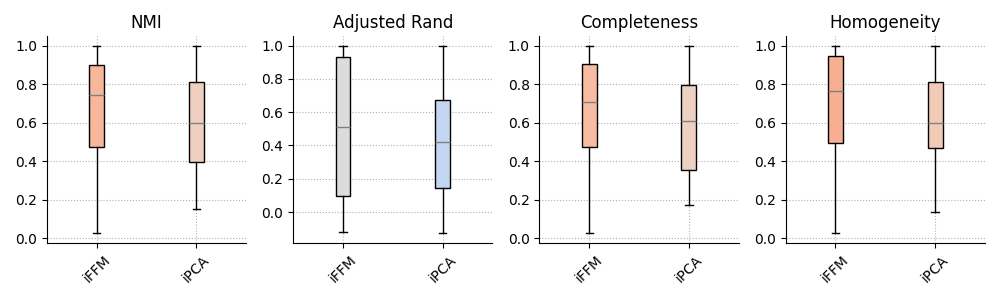
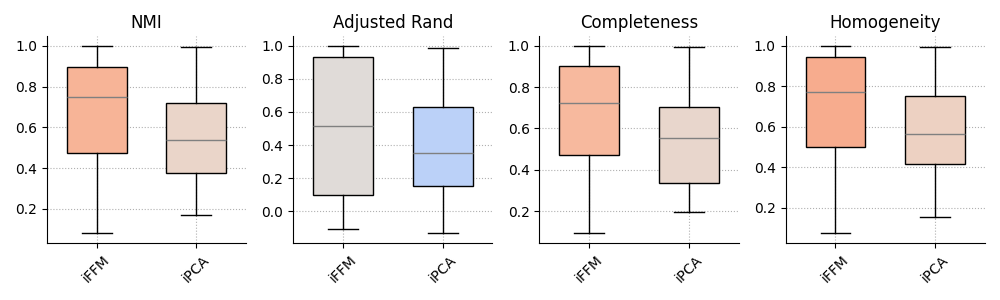
figure benchmark

diff --git a/benchmark_experiment.py b/benchmark_experiment.py
@@ -1,3 +1,4 @@
+import math
 import os
 import numpy as np
 from sklearn.cluster import KMeans
@@ -6,8 +7,12 @@ from sklearn.discriminant_analysis import StandardScaler
 from ffm import FFM
 from sklearn.metrics import normalized_mutual_info_score, adjusted_rand_score, completeness_score, homogeneity_score
 import matplotlib.pyplot as plt
+from scipy.stats import rankdata
+from scipy.stats import chi2
 
 dir = 'experiments_R2/datasets'
+
+np.random.seed(2137)
 
 files = os.listdir(dir)
 try:
@@ -36,8 +41,9 @@ files = np.array(files2)
 print(len(files))
 
 # ___ experiments
+reps = 20
 metrics = [normalized_mutual_info_score, adjusted_rand_score, completeness_score, homogeneity_score]
-results = np.zeros((len(files),10,4,2))
+results = np.zeros((len(files),reps,4,2))
 
 for f_id, f in enumerate(files):
     data = np.loadtxt('%s/%s' % (dir, f), delimiter=',')
@@ -64,7 +70,7 @@ for f_id, f in enumerate(files):
         end = (ch_id+1)*chunk_size
         gt.append(int(y[end-1]))
     
-    for rep in range(10):
+    for rep in range(reps):
         
         # FFM
         ffm = FFM(n=4)
@@ -106,7 +112,7 @@ np.savetxt('experiments_R2/results_benchmarks.csv', rows, delimiter='\t', fmt="%
 fig, ax = plt.subplots(1,4,figsize=(10,3))
 for metric_id, metric in enumerate(['NMI', 'Adjusted Rand', 'Completeness', 'Homogeneity']):
         
-        bplot = ax[metric_id].boxplot(mean_res[:,metric_id], 
+        bplot = ax[metric_id].boxplot(mean_res[:,metric_id], widths=0.6, 
                                               patch_artist=True)
         
         colors = plt.cm.coolwarm(np.mean(mean_res[:,metric_id], axis=0))
@@ -129,3 +135,272 @@ fig.align_ylabels()
 
 plt.tight_layout()
 plt.savefig('foo.png') 
+
+exit()
+#---- stat
+
+def friedman_test(X, alpha=0.05):
+    N = X.shape[0]
+    k = X.shape[1]
+    ranks = k + 1 - rankdata(X, axis=1)
+    stat = (12 / N*k*(k+1)) * np.sum(np.sum(ranks, axis=0)**2) - 3*N*(k+1)
+    chi = chi2.ppf(1 - alpha, k-1)
+    return np.mean(ranks, axis=0), stat >= chi
+
+
+def compute_CD(avranks, n):
+    k = len(avranks)
+    q = [0, 0, 1.959964, 2.343701, 2.569032, 2.727774,
+        2.849705, 2.94832, 3.030879, 3.101730, 3.163684,
+        3.218654, 3.268004, 3.312739, 3.353618, 3.39123,
+        3.426041, 3.458425, 3.488685, 3.517073,
+        3.543799]
+    cd = q[k] * (k * (k + 1) / (6.0 * n)) ** 0.5
+    return cd
+
+def nth(l, n):
+        """
+        Returns only nth elemnt in a list.
+        """
+        n = lloc(l, n)
+        return [a[n] for a in l]
+
+def lloc(l, n):
+    """
+    List location in list of list structure.
+    Enable the use of negative locations:
+    -1 is the last element, -2 second last...
+    """
+    if n < 0:
+        return len(l[0]) + n
+    else:
+        return n
+    
+def mxrange(lr):
+    """
+    Multiple xranges. Can be used to traverse matrices.
+    This function is very slow due to unknown number of
+    parameters.
+
+    >>> mxrange([3,5])
+    [(0, 0), (0, 1), (0, 2), (1, 0), (1, 1), (1, 2)]
+
+    >>> mxrange([[3,5,1],[9,0,-3]])
+    [(3, 9), (3, 6), (3, 3), (4, 9), (4, 6), (4, 3)]
+
+    """
+    if not len(lr):
+        yield ()
+    else:
+        # it can work with single numbers
+        index = lr[0]
+        if isinstance(index, int):
+            index = [index]
+        for a in range(*index):
+            for b in mxrange(lr[1:]):
+                yield tuple([a] + list(b))
+
+
+# ----
+
+def graph_ranks(avranks, names, cd, width=6, textspace=1, reverse=False, title=None, color='r'):
+    """
+    Draws a CD graph, which is used to display  the differences in methods'
+    performance. See Janez Demsar, Statistical Comparisons of Classifiers over
+    Multiple Data Sets, 7(Jan):1--30, 2006.
+
+    Args:
+        avranks (list of float): average ranks of methods.
+        names (list of str): names of methods.
+        cd (float): Critical difference used for statistically significance of
+            difference between methods.
+        textspace (int, optional): space on figure sides (in inches) for the
+            method names (default: 1)
+        reverse (bool, optional):  if set to `True`, the lowest rank is on the
+            right (default: `False`)
+    """
+    
+    width = float(width)
+    textspace = float(textspace)
+
+    sums = avranks
+    tempsort = sorted([(a, i) for i, a in enumerate(sums)], reverse=reverse)
+    ssums = nth(tempsort, 0)
+    sortidx = nth(tempsort, 1)
+    nnames = [names[x] for x in sortidx]
+
+    lowv = min(1, int(math.floor(min(ssums))))
+    highv = max(len(avranks), int(math.ceil(max(ssums))))
+
+    cline = 0.4
+    k = len(sums)
+    lines = None
+
+    linesblank = 0
+    scalewidth = width - 2 * textspace
+
+    def rankpos(rank):
+        if not reverse:
+            a = rank - lowv
+        else:
+            a = highv - rank
+        return textspace + scalewidth / (highv - lowv) * a
+
+    distanceh = 0.25
+
+    def get_lines(sums, hsd):
+        # get all pairs
+        lsums = len(sums)
+        allpairs = [(i, j)
+                    for i, j in mxrange([[lsums], [lsums]]) if j > i]
+        # remove not significant
+        notSig = [(i, j) for i, j in allpairs
+                    if abs(sums[i] - sums[j]) <= hsd]
+        # keep only longest
+
+        def no_longer(ij_tuple, notSig):
+            i, j = ij_tuple
+            for i1, j1 in notSig:
+                if (i1 <= i and j1 > j) or (i1 < i and j1 >= j):
+                    return False
+            return True
+
+        longest = [(i, j) for i, j in notSig if no_longer((i, j), notSig)]
+
+        return longest
+
+    lines = get_lines(ssums, cd)
+    linesblank = 0.2 + 0.2 + (len(lines) - 1) * 0.1
+
+    # add scale
+    distanceh = 0.25
+    cline += distanceh
+
+    # calculate height needed height of an image
+    minnotsignificant = max(2 * 0.2, linesblank)
+    height = cline + ((k + 1) / 2) * 0.2 + minnotsignificant
+
+    fig, ax = plt.subplots(1,1,figsize=(width, height))
+    ax.set_title(title, fontsize=10)
+    ax.set_axis_off()
+
+    hf = 1. / height  # height factor
+    wf = 1. / width
+
+    def hfl(l):
+        return [a * hf for a in l]
+
+    def wfl(l):
+        return [a * wf for a in l]
+
+    # Upper left corner is (0,0).
+    ax.plot([0, 1], [0, 1], c="w")
+    ax.set_xlim(0, 1)
+    ax.set_ylim(1, 0)
+
+    def line(l, color='k', **kwargs):
+        """
+        Input is a list of pairs of points.
+        """
+        ax.plot(wfl(nth(l, 0)), hfl(nth(l, 1)), color=color, **kwargs)
+
+    def text(x, y, s, *args, **kwargs):
+        ax.text(wf * x, hf * y, s, *args, **kwargs)
+
+    line([(textspace, cline), (width - textspace, cline)], linewidth=0.7)
+
+    bigtick = 0.1
+    smalltick = 0.05
+
+    tick = None
+    for a in list(np.arange(lowv, highv, 0.5)) + [highv]:
+        tick = smalltick
+        if a == int(a):
+            tick = bigtick
+        line([(rankpos(a), cline - tick / 2),
+              (rankpos(a), cline)],
+             linewidth=0.7)
+
+    for a in range(lowv, highv + 1):
+        text(rankpos(a), cline - tick / 2 - 0.05, str(a),
+             ha="center", va="bottom")
+
+    k = len(ssums)
+
+    for i in range(math.ceil(k / 2)):
+        chei = cline + minnotsignificant + i * 0.2
+        line([(rankpos(ssums[i]), cline),
+              (rankpos(ssums[i]), chei),
+              (textspace - 0.1, chei)],
+             linewidth=0.7)
+        text(textspace - 0.2, chei, nnames[i], ha="right", va="center")
+
+    for i in range(math.ceil(k / 2), k):
+        chei = cline + minnotsignificant + (k - i - 1) * 0.2
+        line([(rankpos(ssums[i]), cline),
+              (rankpos(ssums[i]), chei),
+              (textspace + scalewidth + 0.1, chei)],
+             linewidth=0.7)
+        text(textspace + scalewidth + 0.2, chei, nnames[i],
+             ha="left", va="center")
+
+    # upper scale
+    if not reverse:
+        begin, end = rankpos(lowv), rankpos(lowv + cd)
+    else:
+        begin, end = rankpos(highv), rankpos(highv - cd)
+
+    line([(begin, distanceh), (end, distanceh)], linewidth=0.7, color=color)
+    line([(begin, distanceh + bigtick / 2),
+            (begin, distanceh - bigtick / 2)],
+            linewidth=0.7, color=color)
+    line([(end, distanceh + bigtick / 2),
+            (end, distanceh - bigtick / 2)],
+            linewidth=0.7, color=color)
+    text((begin + end) / 2, distanceh - 0.05, "CD",
+            ha="center", va="bottom", color=color)
+
+    # no-significance lines
+    def draw_lines(lines, side=0.05, height=0.1):
+        start = cline + 0.2
+        for l, r in lines:
+            line([(rankpos(ssums[l]) - side, start),
+                    (rankpos(ssums[r]) + side, start)],
+                    linewidth=2.5, color=color)
+            start += height
+
+    draw_lines(lines)
+    
+    return fig
+    
+# _____
+metric_names = ['NMI', 'Adjusted Rand', 'Completeness', 'Homogeneity']
+print(mean_res.shape) # (10, 6)
+    # should be reps x methods
+for metric_id, metric in enumerate(metric_names):
+    results_metric = mean_res[:,metric_id]
+    print(results_metric.shape)
+    print(friedman_test(results_metric)) # ALL true
+
+    ranks = []
+    for r in range(results_metric.shape[0]):
+        # rangi dla replikacji r
+        rep_res = results_metric[r]
+        print(rep_res.shape)
+        ranks.append(rankdata(rep_res).tolist())
+    ranks = np.array(ranks)
+    print(ranks)
+
+    av_ranks = np.mean(ranks, axis=0)
+    print(av_ranks)
+    # exit()
+    cd = compute_CD(av_ranks, results_metric.shape[0])
+
+    fig = graph_ranks(av_ranks, ['iFFM', 'iPCA'], cd=cd, width=6, 
+                    textspace=1.1, 
+                    title='Metric: %s' % metric, 
+                    color=plt.cm.coolwarm(.9))
+    plt.tight_layout()
+
+    plt.savefig("foo.png", dpi=300)
+    exit()
